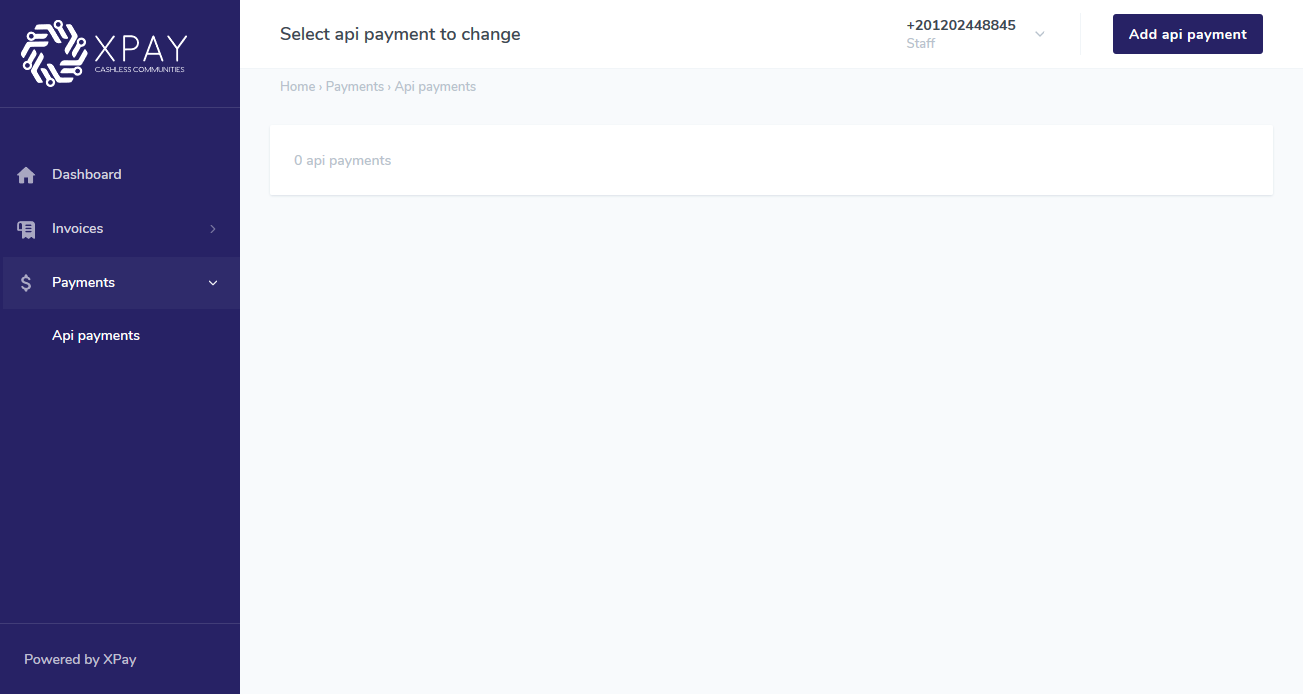
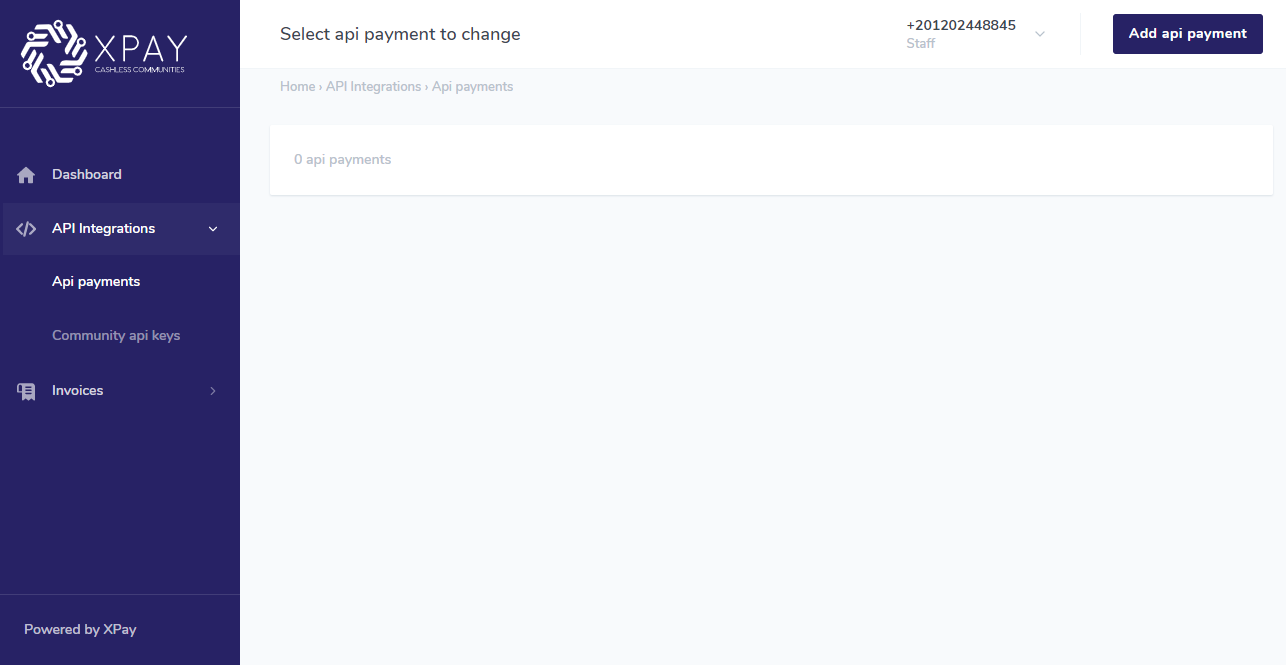
update assets

diff --git a/API_Payment.md b/API_Payment.md
@@ -86,7 +86,7 @@ If the POST request was successful, it will return `<totaL_amount_piasters>` whi
 
   
 
-2. Navigate to **API Payment** under **payments** section in the side menu.
+2. Navigate to **API Payment** under **API Integrations** section in the side menu.
 
   
 
@@ -97,6 +97,8 @@ If the POST request was successful, it will return `<totaL_amount_piasters>` whi
 
 3. Click on **add variable amount** button in the top right corner.
 
+
+![Add an API Payment form](./assets/api_payment_form.png)
   
 
 4. Fill in the name and description that describe your payment type.
@@ -115,7 +117,6 @@ If the POST request was successful, it will return `<totaL_amount_piasters>` whi
 
 10. click **Save**.
 
-![Add an API Payment form](./assets/api_payment_form.png)
 
   
 
@@ -135,7 +136,7 @@ If the POST request was successful, it will return `<totaL_amount_piasters>` whi
 
 # 3. API key
 
-1. Navigate to **API keys** under **payments** communities in the side menu.
+1. Navigate to **Community api keys** under **API Integrations** in the side menu.
 
   
 
